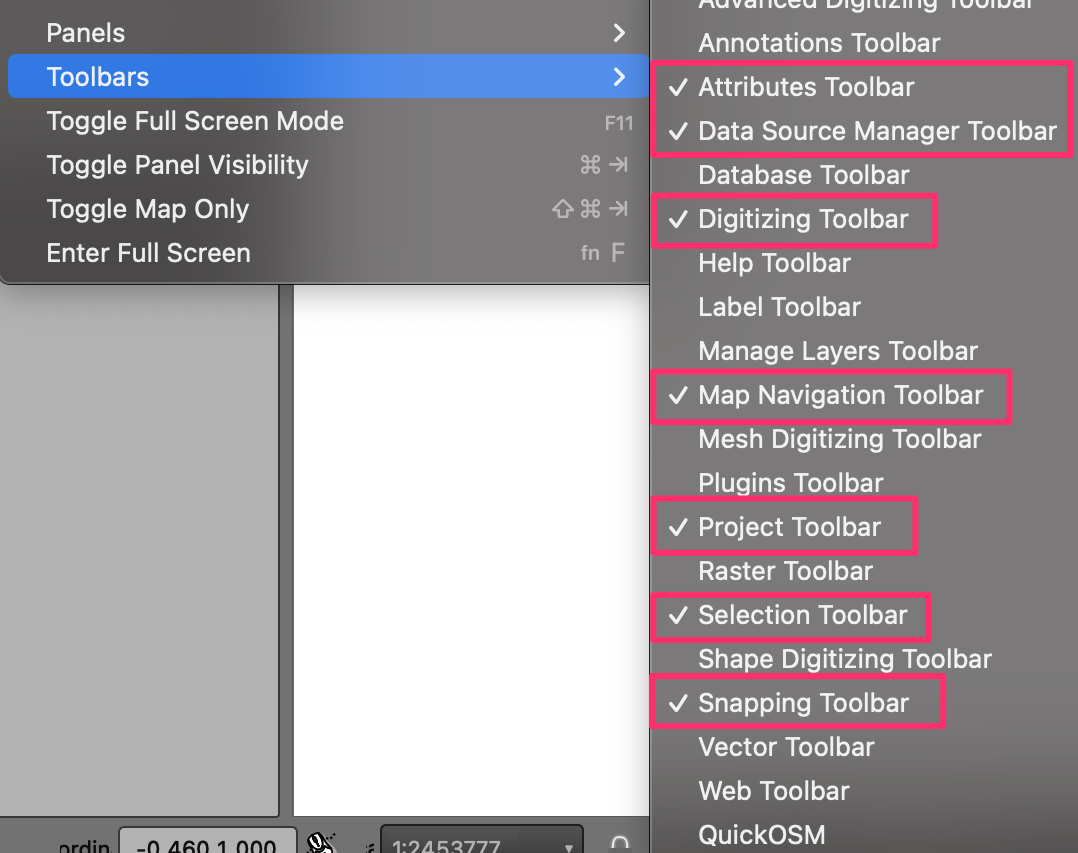
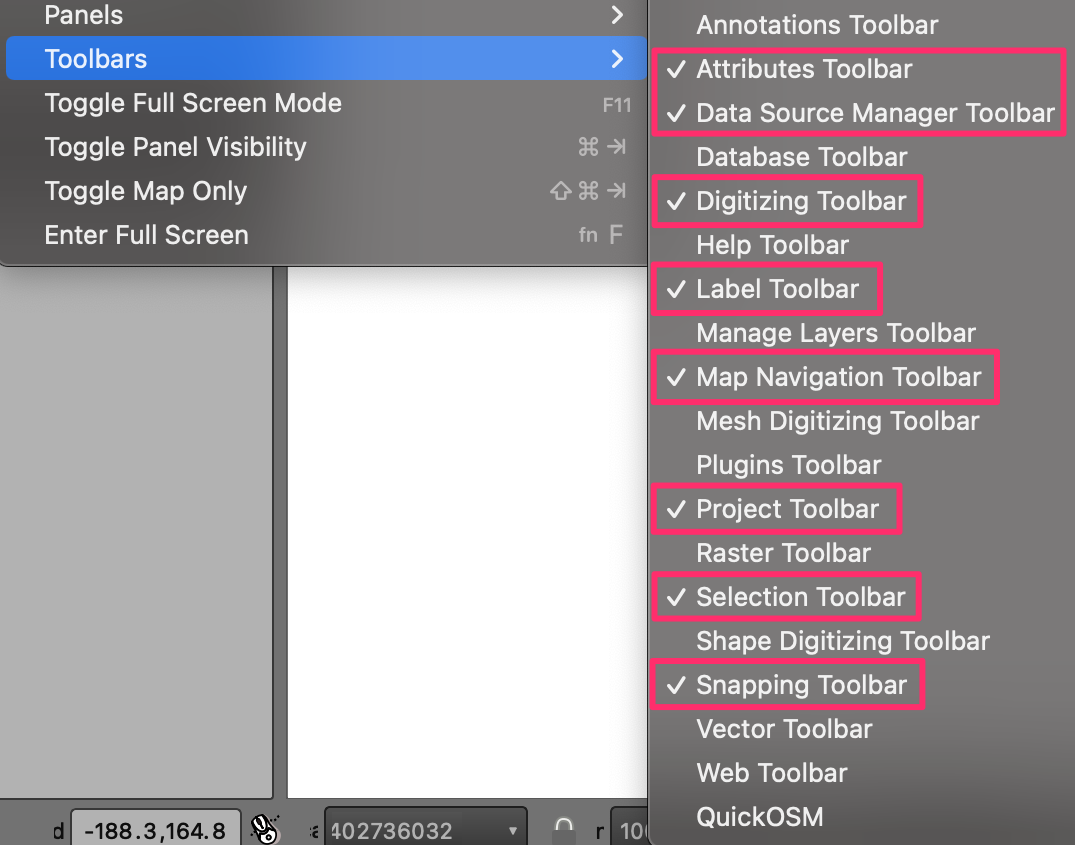
update toolbars

Changed region(s): [[0.0, 0.0, 1.0, 1.0]]

diff --git a/docs/introduction-to-qgis.html b/docs/introduction-to-qgis.html
@@ -376,6 +376,7 @@ $(document).ready(function () {
 <li>Attributes Toolbar</li>
 <li>Data Source Manager Toolbar</li>
 <li>Digitizing Toolbar</li>
+<li>Label Toolbar</li>
 <li>Map Navigation Toolbar</li>
 <li>Project Toolbar</li>
 <li>Selection Toolbar</li>
@@ -443,7 +444,7 @@ $(document).ready(function () {
 <li>We will now learn about some of the tools to query and select records. From the <em>Selection Toolbar</em>, click the <em>Select Features by Value…</em> button.</li>
 </ol>
 <blockquote>
-<p>Note: If the selection toolbar is not enabled, right-click on tht toolbar panel and check <strong>Selection Toolbard</strong>.</p>
+<p>Note: If the selection toolbar is not enabled, right-click on tht toolbar panel and check <strong>Selection Toolbar</strong>.</p>
 </blockquote>
 <p><img src="images/introduction_to_qgis/earthquakes_part1_10.png" width="75%" style="display: block; margin: auto;" /></p>
 <ol start="11" style="list-style-type: decimal">
